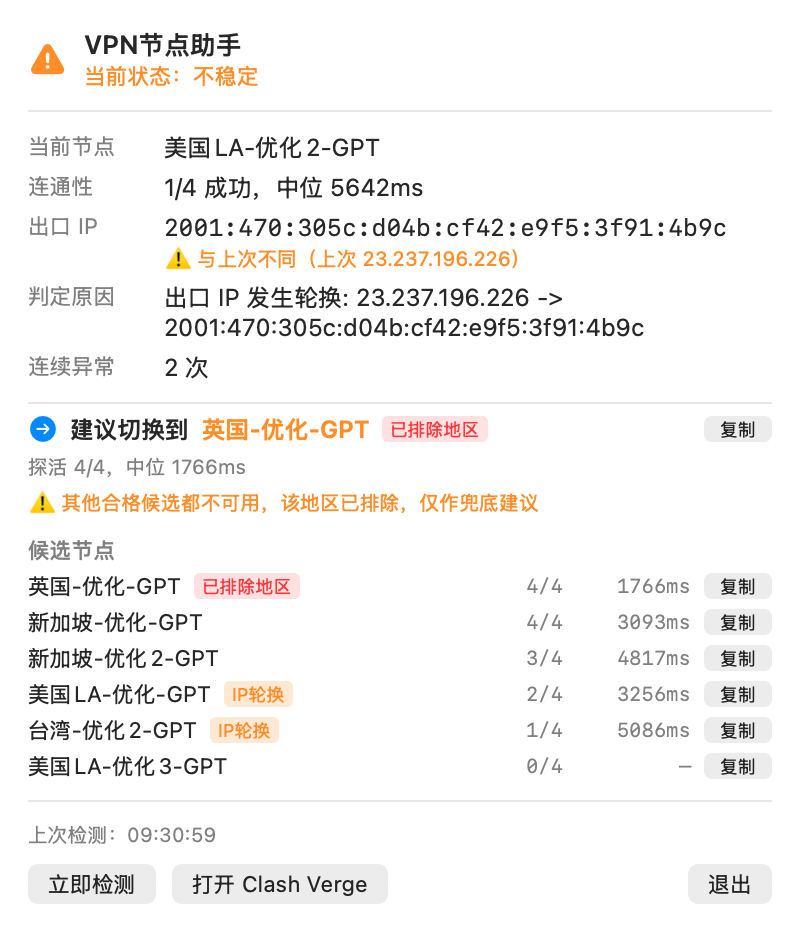
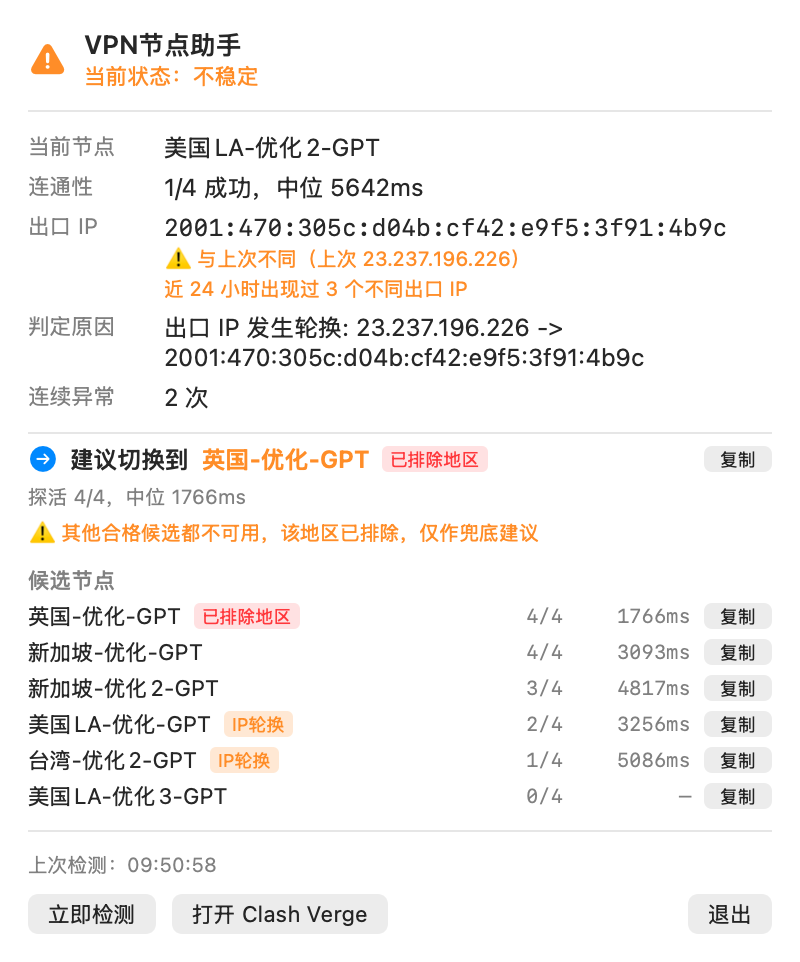
perf: 并行探测候选节点, 检测耗时降低约 75%
- 候选探测改为并行 (CNG_PARALLEL=1)
  · mihomo 的 delay 保护是按节点加的, 不同节点互不阻塞
  · 实测并发不会降低成功率 (单独 4/4, 6 路并发同样 4/4), 只有延迟数值抖动变大,
    而延迟在这里仅用于平局比较
  · 实测: 候选阶段 150 秒 -> 37 秒

fix: 运行锁记录 PID, 持有进程已死则立即清理

  原来只靠 1800 秒超时。App 被强杀或崩溃后, 锁会一直卡住后续检测,
  界面停在"检测中 / 上一次检测仍在进行中"。现在锁里写持有者 PID,
  kill -0 探测不到就立刻清理; 超时兜底也从 1800 秒收紧到 600 秒。

feat: 出口 IP 统计改为时间窗, 并展示检测进度

- 出口 IP 观测记录改成 (时间戳, 节点, IP) 逐条记录, 统计最近
  CNG_IP_WINDOW_H 小时 (默认 24) 内的去重个数
  原实现是"永久累计曾经出现过的 IP", 界面上显示成"历史出现过 N 个",
  没有时间范围, 三天前的 IP 和刚轮换出来的 IP 会被算在一起;
  改成时间窗后数字含义明确, 且反映节点当前行为——机场修好了轮换会自动摘标记
  该窗口同时用于候选的「IP轮换」标记
- 弹窗在检测期间显示每秒刷新的"已用时 X"(TimelineView),
  不再让人以为卡死; 检测完成后日志也记录耗时
- App 侧增加 300 秒硬超时: 超时终止脚本 (脚本 trap 会释放运行锁) 并提示重试
- 「与上次不同」和「近 24 小时出现过 N 个」现在同时显示,
  不再因为前者为真就把后者挤掉

docs: README 补充单次检测耗时、并行策略与出口 IP 统计口径

diff --git a/app/App.swift b/app/App.swift
@@ -23,6 +23,8 @@ struct CurrentInfo: Codable {
     var prev_ip: String
     var ip_changed: Bool
     var ip_history_count: Int
+    /// 上面那个计数的统计窗口(小时), 由引擎给出, 避免界面上出现没有时间范围的"历史"
+    var ip_window_h: Int?
     var error: String
 }
 
@@ -113,7 +115,7 @@ enum Engine {
         await Task.detached(priority: .utility) { performCheck() }.value
     }
 
-    private static func performCheck() -> CheckOutcome {
+    private static func performCheck(timeout: TimeInterval = 300) -> CheckOutcome {
         guard let script = scriptPath() else {
             return .failure("找不到检测脚本 vpn-node-guard.sh")
         }
@@ -136,8 +138,20 @@ enum Engine {
             return .failure("无法启动检测脚本: \(error.localizedDescription)")
         }
 
+        // 超时保护: 正常情况下单次检测 15~40 秒, 节点不稳定时并行探测候选约 40~150 秒。
+        // 给足 300 秒; 真超时就 SIGTERM 掉 —— 脚本的 trap 会释放运行锁,
+        // 否则 App 会永远停在"检测中"。
+        let watchdog = DispatchWorkItem {
+            if proc.isRunning {
+                NSLog("检测脚本超时 (%.0f 秒), 终止", timeout)
+                proc.terminate()
+            }
+        }
+        DispatchQueue.global().asyncAfter(deadline: .now() + timeout, execute: watchdog)
+
         let data = outPipe.fileHandleForReading.readDataToEndOfFile()
         proc.waitUntilExit()
+        watchdog.cancel()
 
         let text = String(data: data, encoding: .utf8) ?? ""
         // 脚本可能先输出日志再输出 JSON, 取最后一个非空行
@@ -149,6 +163,9 @@ enum Engine {
         guard !line.isEmpty, let jsonData = line.data(using: .utf8) else {
             let errText = String(data: errPipe.fileHandleForReading.readDataToEndOfFile(),
                                 encoding: .utf8) ?? ""
+            if proc.terminationStatus == 15 {
+                return .failure("检测超时 (\(Int(timeout)) 秒) 已中止, 请点「立即检测」重试")
+            }
             return .failure("检测脚本没有返回结果 (退出码 \(proc.terminationStatus)) \(errText)")
         }
 
@@ -167,6 +184,9 @@ final class GuardModel: ObservableObject {
     @Published var running = false
     @Published var errorText: String?
     @Published var lastRunAt: Date?
+    /// 本轮检测的开始时间, 用于显示"已用时" —— 不稳定时要并行探测所有候选,
+    /// 可能耗时 1~2 分钟, 没有进度提示会让人以为卡死了
+    @Published var checkStartedAt: Date?
 
     /// 检测间隔(分钟)。改这里即可调整频率。
     let intervalMinutes: Double = 30
@@ -197,23 +217,34 @@ final class GuardModel: ObservableObject {
         if running { return }
         running = true
         errorText = nil
+        checkStartedAt = Date()
         Task { @MainActor in
             let result = await Engine.check()
+            let took = self.checkStartedAt.map { Date().timeIntervalSince($0) } ?? 0
             self.running = false
+            self.checkStartedAt = nil
             self.lastRunAt = Date()
             switch result {
             case .success(let r):
                 self.report = r
                 let cur = r.current
-                AppLog.write("检测完成 state=\(r.state) node=\(cur?.name ?? "-") "
-                    + "ok=\(cur?.ok ?? -1)/\(cur?.total ?? -1) "
-                    + "ip=\(cur?.exit_ip ?? "-") alert=\(r.alert)")
+                AppLog.write(String(format: "检测完成 用时%.1fs state=%@ node=%@ ok=%d/%d ip=%@ alert=%@",
+                                    took, r.state, cur?.name ?? "-",
+                                    cur?.ok ?? -1, cur?.total ?? -1,
+                                    cur?.exit_ip ?? "-", r.alert ? "true" : "false"))
                 self.evaluateAlert(r)
             case .failure(let msg):
                 self.errorText = msg
-                AppLog.write("检测失败: \(msg)")
+                AppLog.write(String(format: "检测失败 用时%.1fs: %@", took, msg))
             }
         }
+    }
+
+    /// 把秒数格式化成 12 秒 / 1 分 05 秒
+    static func elapsedText(_ from: Date) -> String {
+        let seconds = max(0, Int(Date().timeIntervalSince(from)))
+        if seconds < 60 { return "\(seconds) 秒" }
+        return String(format: "%d 分 %02d 秒", seconds / 60, seconds % 60)
     }
 
     /// 只在"问题刚开始"或"恶化为完全不通"时提醒一次, 避免每 30 分钟轰炸
@@ -346,6 +377,21 @@ struct PanelView: View {
 
     @ViewBuilder
     private var content: some View {
+        // 检测进行中时, 用 TimelineView 每秒刷新"已用时" ——
+        // 节点不稳定时要并行探测所有候选, 可能跑 1~2 分钟,
+        // 没有进度反馈会让人以为卡死了。
+        if model.running, let startedAt = model.checkStartedAt {
+            TimelineView(.periodic(from: .now, by: 1)) { _ in
+                HStack(spacing: 6) {
+                    ProgressView().controlSize(.small)
+                    Text("正在检测… 已用时 \(GuardModel.elapsedText(startedAt))")
+                        .font(.system(size: 12, weight: .medium))
+                    Spacer()
+                }
+                .padding(.vertical, 2)
+            }
+        }
+
         if let err = model.errorText {
             Label(err, systemImage: "exclamationmark.circle")
                 .font(.system(size: 11))
@@ -355,14 +401,19 @@ struct PanelView: View {
                 Text(r.message ?? "Clash Verge 未运行，无需体检。")
                     .font(.system(size: 12))
             } else if r.state == "busy" {
-                Text(r.message ?? "上一次检测仍在进行中。")
-                    .font(.system(size: 12))
+                VStack(alignment: .leading, spacing: 3) {
+                    Text(r.message ?? "另一个检测进程正在运行")
+                        .font(.system(size: 12))
+                    Text("通常几秒内就会结束；若一直如此，点「立即检测」会清理掉已死进程留下的锁。")
+                        .font(.system(size: 10))
+                        .foregroundStyle(.secondary)
+                }
             } else {
                 nodeSection(r)
                 if r.state != "healthy" { recommendSection(r) }
                 if let cands = r.candidates, !cands.isEmpty { candidateSection(cands) }
             }
-        } else {
+        } else if !model.running {
             Text("正在检测…").font(.system(size: 12))
         }
     }
@@ -386,12 +437,15 @@ struct PanelView: View {
                             Text("⚠ 与上次不同（上次 \(c.prev_ip)）")
                                 .font(.system(size: 10))
                                 .foregroundStyle(.orange)
-                        } else if c.ip_history_count >= 2 {
-                            Text("⚠ 历史上出现过 \(c.ip_history_count) 个不同出口 IP")
+                        }
+                        // 这个计数始终显示。原来放在 else 分支里, 只有"IP 没变"时才出现,
+                        // 而它恰恰是判断节点会不会轮换的关键信息, 不该被"与上次不同"挤掉。
+                        if c.ip_history_count >= 2 {
+                            Text("近 \(c.ip_window_h ?? 24) 小时出现过 \(c.ip_history_count) 个不同出口 IP")
                                 .font(.system(size: 10))
                                 .foregroundStyle(.orange)
                         } else {
-                            Text("近期稳定")
+                            Text("近 \(c.ip_window_h ?? 24) 小时出口 IP 稳定")
                                 .font(.system(size: 10))
                                 .foregroundStyle(.green)
                         }

diff --git a/app/Preview.swift b/app/Preview.swift
@@ -22,7 +22,7 @@ extension GuardModel {
                 name: "美国LA-优化2-GPT", ok: 1, total: 4, median: "5642",
                 exit_ip: "2001:470:305c:d04b:cf42:e9f5:3f91:4b9c",
                 prev_ip: "23.237.196.226", ip_changed: true,
-                ip_history_count: 3, error: "Timeout"),
+                ip_history_count: 3, ip_window_h: 24, error: "Timeout"),
             recommend: RecommendInfo(name: "英国-优化-GPT", ok: "4", total: "4", median: "1766", excluded: true),
             candidates: [
                 Candidate(name: "英国-优化-GPT", ok: 4, total: 4, median: "1766", rotating: false, excluded: true),
